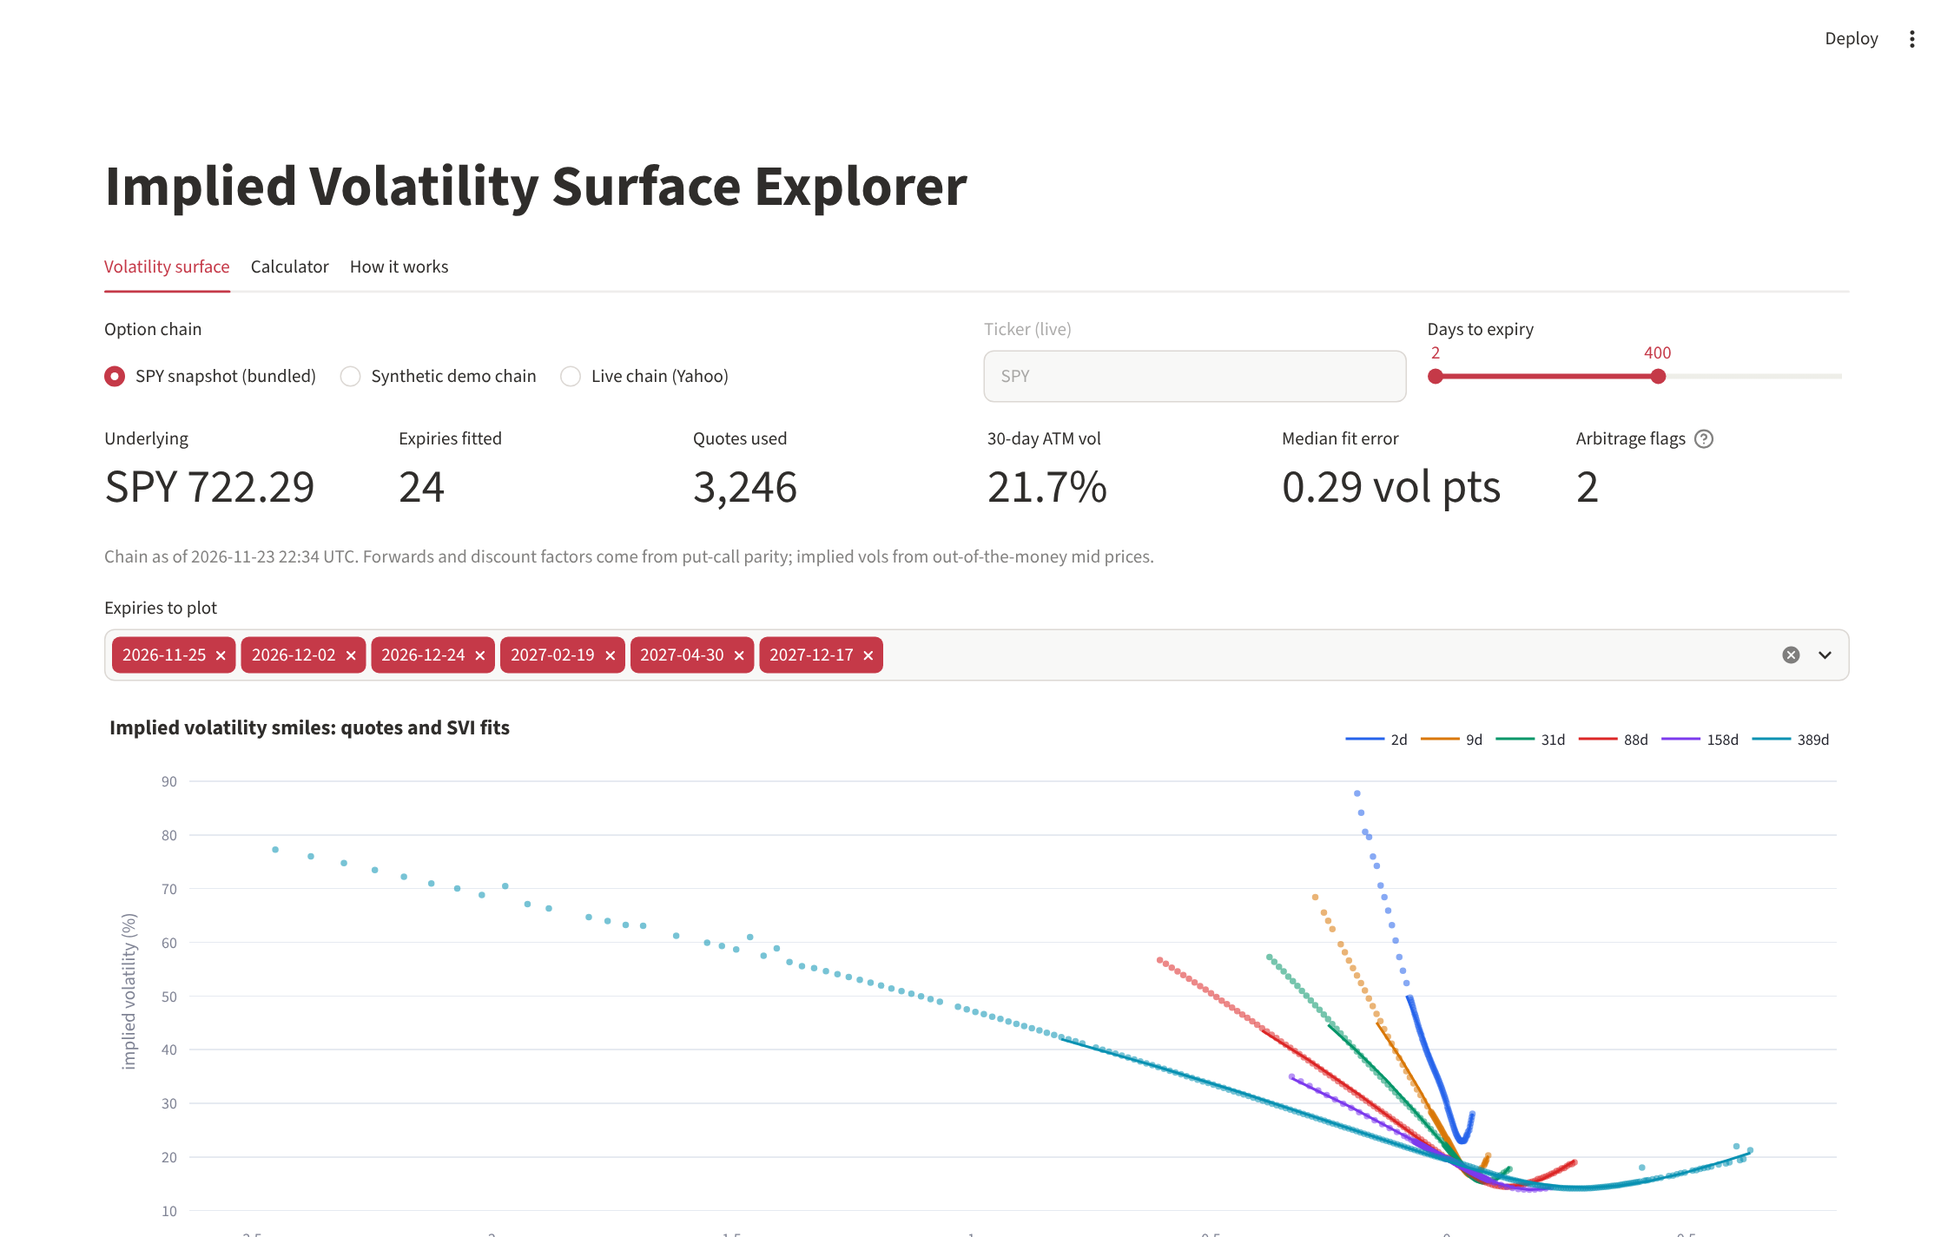
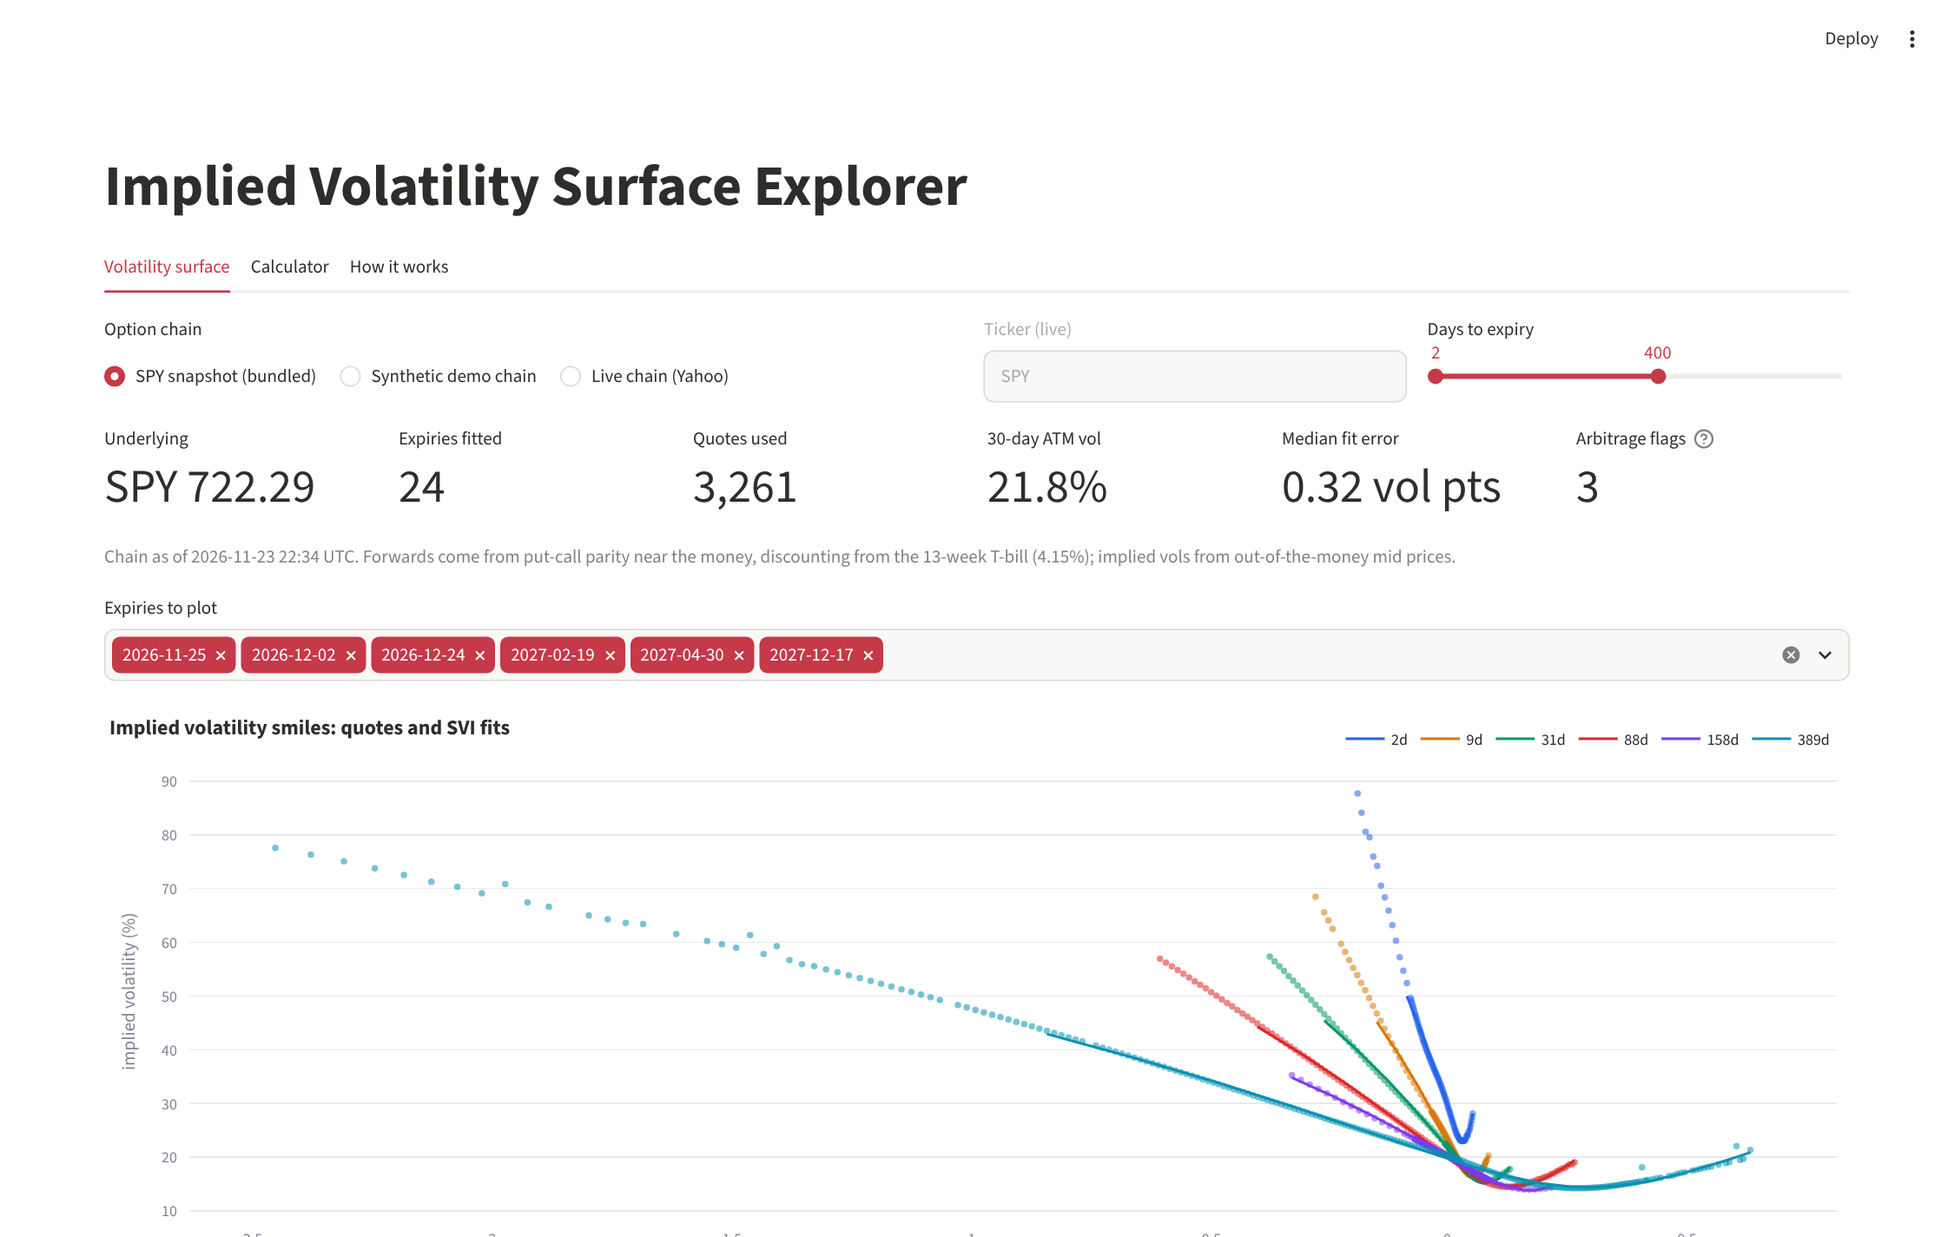
Discount at the T-bill instead of reading the rate off parity
SPY options are American. Early exercise makes in-the-money calls and puts
dearer, which tilts C - P against the strike, so the free put-call parity
regression returned a discount factor above 1 (a negative rate) for every
SPY expiry and biased implied volatilities down by up to about a vol point
at long maturities. Discounting now uses the 13-week T-bill stored with the
snapshot (or fetched with a live chain), and only the forward is read off
parity, at the six strikes nearest the money, as in Cboe's VIX method. The
regression remains the fallback when no rate is available, capped at 1.

Two new tests: the forward is recovered when deep in-the-money puts carry
an early-exercise premium, and the real snapshot discounts at the T-bill.
Results, README and the app screenshot are regenerated.

Claude-Session: https://claude.ai/code/session_01US7pdiDQx23iBcHLRJn73h

diff --git a/ivsurface/chain.py b/ivsurface/chain.py
@@ -4,10 +4,14 @@ Option chains: loading, cleaning, forwards, implied volatilities and the fitted 
 Pipeline for one chain:
   1. clean: drop quotes with no bid, crossed or locked markets, very wide
      spreads and expiries outside a maturity window; use mid prices;
-  2. forward and discount factor per expiry from put-call parity: across
-     strikes with both a call and a put, C - P = df * (F - K), so regressing
-     C - P on K gives the slope -df and the intercept df * F. No rate or
-     dividend assumption is needed;
+  2. forward and discount factor per expiry. European put-call parity says
+     C - P = df * (F - K) at every strike. Listed equity options (SPY's
+     included) are American: early exercise makes in-the-money options dearer
+     and tilts C - P, so a free regression of C - P on K returns a discount
+     factor above 1. With a risk-free rate (the 13-week T-bill stored with the
+     snapshot), df = exp(-r T) and only the forward is read off parity, at the
+     strikes nearest the money, as in Cboe's VIX method. Without a rate the
+     regression is used, with df capped at 1;
   3. implied volatilities (Black-76 on the forward) of out-of-the-money
      options only (puts below the forward, calls above), which are the liquid
      ones and carry no early-exercise premium worth speaking of;
@@ -36,6 +40,8 @@ def load_snapshot(ticker: str = "SPY", data_dir: Path = DATA_DIR) -> tuple[pd.Da
     chain = pd.read_csv(data_dir / f"{ticker}_chain_snapshot.csv")
     meta_path = data_dir / f"{ticker}_chain_meta.json"
     meta = json.loads(meta_path.read_text()) if meta_path.exists() else {}
+    if meta.get("tbill_13w") is not None and "rate" not in chain.columns:
+        chain["rate"] = float(meta["tbill_13w"])
     return chain, meta
 
 
@@ -61,8 +67,17 @@ def fetch_live(ticker: str, max_days: int = 400) -> tuple[pd.DataFrame, dict]:
                              "yahoo_iv": float(r.get("impliedVolatility", np.nan)), "spot": spot})
     if not rows:
         raise RuntimeError(f"No option chain returned for {ticker!r}.")
-    return pd.DataFrame(rows), {"ticker": ticker, "spot": spot,
-                                "as_of_utc": pd.Timestamp.now(tz="UTC").strftime("%Y-%m-%d %H:%M")}
+    out = pd.DataFrame(rows)
+    rate = None
+    try:
+        irx = yf.Ticker("^IRX").history(period="10d")["Close"].dropna()
+        rate = float(irx.iloc[-1]) / 100.0 if len(irx) else None
+    except Exception:
+        rate = None
+    if rate is not None:
+        out["rate"] = rate
+    return out, {"ticker": ticker, "spot": spot, "tbill_13w": rate,
+                 "as_of_utc": pd.Timestamp.now(tz="UTC").strftime("%Y-%m-%d %H:%M")}
 
 
 def clean(chain: pd.DataFrame, min_days: int = 2, max_days: int = 400,
@@ -76,15 +91,35 @@ def clean(chain: pd.DataFrame, min_days: int = 2, max_days: int = 400,
     return c[c["rel_spread"] <= max_rel_spread].reset_index(drop=True)
 
 
-def forward_and_discount(slice_: pd.DataFrame, spot: float) -> tuple[float, float, int]:
+def forward_and_discount(slice_: pd.DataFrame, spot: float, rate: float | None = None) -> tuple[float, float, int]:
     """
     Forward and discount factor of one expiry from put-call parity,
-    C - P = df * (F - K), fitted by least squares over strikes within 10% of
-    spot that have both a call and a put.
+    C - P = df * (F - K) (European).
+
+    With a risk-free rate, df = exp(-rate * T) and the forward is the median of
+    K + (C - P) / df over the six strikes nearest to where C - P changes sign,
+    where early exercise is worth least (American options make in-the-money
+    calls and puts dearer). Without one, C - P is regressed on K over strikes
+    within 10% of spot; the slope is -df, capped at 1, and the forward is read
+    near the money at that df. Returns (forward, df, strikes used).
     """
     calls = slice_[slice_["type"] == "C"].set_index("strike")["mid"]
     puts = slice_[slice_["type"] == "P"].set_index("strike")["mid"]
     both = pd.concat([calls, puts], axis=1, keys=["c", "p"]).dropna()
+    if both.empty:
+        return float(spot), 1.0, 0
+    T = float(slice_["days"].iloc[0]) / 365.0
+
+    def forward_near_money(df: float, n: int = 6) -> tuple[float, int]:
+        diff = both["c"] - both["p"]
+        k_star = float(diff.abs().idxmin())
+        near = both.iloc[np.argsort(np.abs(both.index.values - k_star))[:n]]
+        return float(np.median(near.index.values + (near["c"] - near["p"]).values / df)), len(near)
+
+    if rate is not None and np.isfinite(rate):
+        df = float(np.exp(-rate * T))
+        F, n = forward_near_money(df)
+        return F, df, n
     near = both[(both.index > 0.9 * spot) & (both.index < 1.1 * spot)]
     if len(near) < 3:
         near = both
@@ -92,22 +127,26 @@ def forward_and_discount(slice_: pd.DataFrame, spot: float) -> tuple[float, floa
         K = near.index.values.astype(float)
         slope, intercept = np.polyfit(K, (near["c"] - near["p"]).values, 1)
         df = -slope
-        if 0.8 < df <= 1.05:
+        if 0.8 < df <= 1.0:
             return float(intercept / df), float(df), int(len(near))
-    if len(both):  # fall back to the strike where call and put are closest
-        k0 = (both["c"] - both["p"]).abs().idxmin()
-        return float(k0 + both.loc[k0, "c"] - both.loc[k0, "p"]), 1.0, 1
-    return float(spot), 1.0, 0
+        if 1.0 < df <= 1.1:          # American early exercise tilts the line: cap at 1
+            F, n = forward_near_money(1.0)
+            return F, 1.0, n
+    F, n = forward_near_money(1.0)
+    return F, 1.0, n
 
 
-def implied_vols(chain: pd.DataFrame, spot: float | None = None) -> pd.DataFrame:
-    """Implied volatility of every out-of-the-money quote, with its forward and log-moneyness."""
+def implied_vols(chain: pd.DataFrame, spot: float | None = None, rate: float | None = None) -> pd.DataFrame:
+    """Implied volatility of every out-of-the-money quote, with its forward and log-moneyness.
+    rate: risk-free rate for discounting; defaults to the chain's "rate" column if it has one."""
     spot = float(chain["spot"].iloc[0]) if spot is None else spot
+    if rate is None and "rate" in chain.columns and chain["rate"].notna().any():
+        rate = float(chain["rate"].dropna().iloc[0])
     out = []
     for expiry, g in chain.groupby("expiry"):
         days = int(g["days"].iloc[0])
         T = days / 365.0
-        F, df, n_parity = forward_and_discount(g, spot)
+        F, df, n_parity = forward_and_discount(g, spot, rate)
         otm = g[((g["type"] == "P") & (g["strike"] < F)) | ((g["type"] == "C") & (g["strike"] >= F))].copy()
         if otm.empty:
             continue
@@ -184,6 +223,7 @@ def fit_surface(ivs: pd.DataFrame, min_points: int = 8, k_window: float = 4.0) -
     return Surface(fits=fits, summary=summary, calendar=cal, ivs=ivs)
 
 
-def build_surface(chain: pd.DataFrame, min_days: int = 2, max_days: int = 400) -> Surface:
+def build_surface(chain: pd.DataFrame, min_days: int = 2, max_days: int = 400,
+                  rate: float | None = None) -> Surface:
     """clean -> implied vols -> SVI fits -> arbitrage checks."""
-    return fit_surface(implied_vols(clean(chain, min_days, max_days)))
+    return fit_surface(implied_vols(clean(chain, min_days, max_days), rate=rate))

diff --git a/app.py b/app.py
@@ -36,6 +36,7 @@ def get_chain(source: str, ticker: str):
     if source == "synthetic":
         chain, _ = synthetic_chain(seed=7)
         return chain, {"ticker": "SYNTHETIC", "spot": float(chain["spot"].iloc[0]),
+                       "tbill_13w": float(chain["rate"].iloc[0]),
                        "as_of_utc": "generated from a known SSVI surface"}
     return fetch_live(ticker)
 
@@ -97,8 +98,9 @@ with tab_surface:
     flags = int((~s["butterfly_ok"]).sum() + (~s["calendar_ok_vs_previous"]).sum())
     k[5].metric("Arbitrage flags", f"{flags}", help="SVI butterfly (negative density) plus calendar "
                 "(variance falling with maturity by more than 0.1 vol points)")
-    st.caption(f"Chain as of {meta.get('as_of_utc', 'n/a')} UTC. Forwards and discount factors come "
-               "from put-call parity; implied vols from out-of-the-money mid prices.")
+    rate_txt = f"the 13-week T-bill ({meta['tbill_13w']:.2%})" if meta.get("tbill_13w") else "parity (no rate available)"
+    st.caption(f"Chain as of {meta.get('as_of_utc', 'n/a')} UTC. Forwards come from put-call parity near the "
+               f"money, discounting from {rate_txt}; implied vols from out-of-the-money mid prices.")
 
     exps = list(s["expiry"])
     default = [exps[i] for i in np.unique(np.linspace(0, len(exps) - 1, min(6, len(exps))).astype(int))]
@@ -212,10 +214,12 @@ with tab_about:
 
 1. **Clean.** Keep two-sided quotes (bid above zero, ask above bid) with a
    relative spread under 50%, inside the chosen maturity window. Use mid prices.
-2. **Forward and discount factor per expiry.** Put-call parity says
-   $C - P = DF\,(F - K)$ for every strike, so a straight-line fit of $C - P$
-   against $K$ near the money gives $DF$ (minus the slope) and $F$. No rate or
-   dividend assumption is needed.
+2. **Forward per expiry.** Put-call parity says $C - P = DF\,(F - K)$ for
+   every strike, so $F = K + (C - P)/DF$, read at the strikes nearest the money,
+   with $DF = e^{-rT}$ at the 13-week T-bill. SPY options are American: early
+   exercise makes in-the-money options dearer and tilts $C - P$, so a free
+   regression of $C - P$ on $K$ would give a discount factor above 1. Without
+   a rate, that regression is the fallback, with $DF$ capped at 1.
 3. **Implied volatilities** of out-of-the-money options (puts below the
    forward, calls above) by Black-76, with Newton steps inside a shrinking
    bisection bracket.

diff --git a/tests/test_chain_and_app.py b/tests/test_chain_and_app.py
@@ -5,7 +5,7 @@ import pytest
 from streamlit.testing.v1 import AppTest
 
 from ivsurface.calculator import option_through_time, synthetic_path
-from ivsurface.chain import DATA_DIR, build_surface, load_snapshot
+from ivsurface.chain import DATA_DIR, build_surface, clean, implied_vols, load_snapshot
 from tests.conftest import ROOT
 
 HAS_SNAPSHOT = (DATA_DIR / "SPY_chain_snapshot.csv").exists()
@@ -21,6 +21,18 @@ def test_real_spy_surface_fits():
     assert 0.05 < atm30 < 0.8
     assert (s["skew_25d_put_minus_call"].dropna() > 0).mean() > 0.9     # equity put skew
     assert s["butterfly_ok"].mean() > 0.8
+
+
+@pytest.mark.skipif(not HAS_SNAPSHOT, reason="no snapshot")
+def test_real_spy_discounting_uses_the_tbill():
+    """SPY options are American: discount at the T-bill, never at a factor above 1."""
+    chain, meta = load_snapshot("SPY")
+    ivs = implied_vols(clean(chain))
+    per = ivs.groupby("expiry").agg(T=("T", "first"), df=("df", "first"), F=("forward", "first"))
+    assert (per["df"] <= 1).all()
+    assert np.allclose(per["df"], np.exp(-meta["tbill_13w"] * per["T"]))
+    assert ((per["F"] / meta["spot"] - 1).abs() < 0.05).all()
+    assert per["F"].is_monotonic_increasing or (per["F"].diff().dropna() > -1.0).all()
 
 
 def test_bug_b_option_ages_towards_expiry():

diff --git a/tests/test_svi.py b/tests/test_svi.py
@@ -64,6 +64,26 @@ def test_forward_and_discount_from_put_call_parity():
         assert n >= 3
 
 
+def test_forward_with_rate_survives_american_premium():
+    """American early exercise makes in-the-money options dearer. That tilts C - P,
+    so a free parity regression gives a discount factor above 1; with the rate known,
+    the forward is still recovered from the strikes nearest the money."""
+    chain, _ = synthetic_chain(seed=1, noise_vol=0.0, rel_spread=0.002, r=0.04, q=0.015)
+    c = clean(chain)
+    for days, g in c.groupby("days"):
+        T = days / 365
+        F_true = 100 * np.exp((0.04 - 0.015) * T)
+        g = g.copy()
+        deep_itm_put = (g["type"] == "P") & (g["strike"] > 1.03 * F_true)
+        g.loc[deep_itm_put, "mid"] += 0.05 * (g.loc[deep_itm_put, "strike"] - 1.03 * F_true)
+        _, df_free, _ = forward_and_discount(g, 100.0)
+        F, df, n = forward_and_discount(g, 100.0, rate=0.04)
+        assert df_free <= 1.0
+        assert df == pytest.approx(np.exp(-0.04 * T), abs=1e-12)
+        assert F == pytest.approx(F_true, rel=1e-4)
+        assert n == 6
+
+
 def test_clean_surface_has_no_arbitrage(clean_surface):
     surface, _ = clean_surface
     assert surface.summary["butterfly_ok"].all()

diff --git a/ivsurface/synthetic.py b/ivsurface/synthetic.py
@@ -47,7 +47,7 @@ def synthetic_chain(spot: float = 100.0, r: float = 0.04, q: float = 0.015,
                     rel_spread: float = 0.03, seed: int = 0, inject: str | None = None):
     """
     Build a chain with the columns of a real snapshot (expiry, days, type,
-    strike, bid, ask, last, volume, open_interest, yahoo_iv, spot).
+    strike, bid, ask, last, volume, open_interest, yahoo_iv, spot, rate).
 
     inject: None, "calendar" (the 91-day slice's variance is cut below the
     60-day slice's) or "butterfly" (the 30-day slice is replaced by a smile
@@ -85,5 +85,5 @@ def synthetic_chain(spot: float = 100.0, r: float = 0.04, q: float = 0.015,
                 ask = round(mid + half, 4)
                 rows.append({"expiry": expiry, "days": d, "type": kind, "strike": K,
                              "bid": bid, "ask": ask, "last": round(mid, 4), "volume": 100.0,
-                             "open_interest": 1000.0, "yahoo_iv": iv, "spot": spot})
+                             "open_interest": 1000.0, "yahoo_iv": iv, "spot": spot, "rate": r})
     return pd.DataFrame(rows), truth

diff --git a/README.md b/README.md
@@ -18,9 +18,12 @@ fixed and tested.
   Finance.
 * **Cleans it**: keeps two-sided quotes (bid above zero, ask above bid) with a
   relative spread under 50%, and uses mid prices.
-* **Reads the forward and discount factor of each expiry off put-call
-  parity**: C - P = DF (F - K) for every strike, so a straight-line fit of
-  C - P on K near the money gives both. No rate or dividend assumption needed.
+* **Reads the forward of each expiry off put-call parity**: C - P = DF (F - K)
+  at every strike, so F = K + (C - P) / DF, taken at the strikes nearest the
+  money, with DF from the 13-week T-bill. SPY options are American, and early
+  exercise makes in-the-money options dearer: a free regression of C - P on K
+  gives a discount factor above 1 for every SPY expiry (a negative rate), so
+  the rate is not read off the chain. No dividend assumption is needed.
 * **Computes implied volatilities** of out-of-the-money options (Black-76 on
   the forward), with Newton steps inside a shrinking bisection bracket, and
   their Greeks.
@@ -37,13 +40,14 @@ Reproduce with `python scripts/make_figures.py`.
 | | |
 |---|---|
 | Spot | 722.29, captured 23 Nov 2026 22:34 UTC (after the close) |
-| Quotes used | 3,246 of 8,375 (out of the money, two-sided, within 4 ATM standard deviations) |
+| Quotes used | 3,261 of 8,375 (out of the money, two-sided, within 4 ATM standard deviations) |
 | Expiries fitted | 24, from 2 to 389 days |
-| 30-day ATM implied volatility | 21.7% |
-| SVI fit error | median 0.29 vol points, worst 0.51 |
-| 25-delta put minus 25-delta call | 6.8 to 9.5 vol points across expiries |
-| Butterfly (fitted smiles) | 23 of 24 expiries clean; the 206-day slice dips just below zero (g = -0.0013) |
-| Calendar | one flag: the 7-day slice sits 0.10 vol points under the 4-day one at its worst point, at the 0.1-point threshold |
+| Discounting | 13-week T-bill, 4.15%; forwards read off parity at the six strikes nearest the money |
+| 30-day ATM implied volatility | 21.8% |
+| SVI fit error | median 0.32 vol points, worst 0.51 |
+| 25-delta put minus 25-delta call | 7.0 to 9.6 vol points across expiries |
+| Butterfly (fitted smiles) | 23 of 24 expiries clean; the 206-day slice dips just below zero (g = -0.0021) |
+| Calendar | two flags, both in long-dated quarter-end expiries quoted after the close: 219 days sits 0.25 vol points under 206 days, and 311 days 0.31 under 298 days |
 | Executable butterflies in the quotes | 25, all in five long-dated expiries (128 to 389 days); the snapshot was taken after the close, when long-dated quotes are often stale |
 
 ![SPY smiles](results/spy_smiles.png)
@@ -117,7 +121,7 @@ described a Plotly chart the app did not draw, and a committed `__pycache__`.
 ```bash
 pip install -r requirements.txt
 streamlit run app.py              # opens at http://localhost:8501
-python -m pytest -q tests         # 33 tests, about 40 seconds
+python -m pytest -q tests         # 35 tests, about 60 seconds
 python scripts/make_figures.py    # refits the SPY snapshot, rewrites results/
 ```
 
@@ -136,10 +140,11 @@ tab); the app also loads live chains when you have internet.
 * SVI: SSVI-to-SVI conversion, the density integrating to one, parameter
   recovery on a noise-free synthetic chain (within 10%), smile recovery within
   0.4 vol points with quote noise, forwards and discount factors recovered
-  from put-call parity, a clean surface passing every check, and injected
-  butterfly and calendar arbitrage being flagged;
-* the real SPY surface fitting with sensible numbers, the option-ageing path,
-  and the app rendering without exceptions.
+  from put-call parity, the forward still recovered when in-the-money puts
+  carry an early-exercise premium, a clean surface passing every check, and
+  injected butterfly and calendar arbitrage being flagged;
+* the real SPY surface fitting with sensible numbers and discounting at the
+  T-bill, the option-ageing path, and the app rendering without exceptions.
 
 ## Project layout
 
@@ -160,11 +165,14 @@ tests/                    pytest suite
 ## Limitations
 
 * One snapshot, taken after the close: long-dated quotes may be stale, which
-  is the likely source of the executable butterflies found.
+  is the likely source of the executable butterflies and the two calendar
+  flags found. The forwards sit about 0.13% above the 4 pm close even at two
+  days, because the quotes reflect after-hours trading in SPY.
 * Each expiry is fitted on its own; the slices are checked for calendar
   arbitrage but not fitted jointly (an SSVI or eSSVI fit would guarantee it).
-* American exercise is ignored: SPY options are American, but only
-  out-of-the-money quotes are used, where the early-exercise premium is small.
+* American exercise is handled only approximately: implied volatilities come
+  from out-of-the-money quotes, where the early-exercise premium is small, and
+  forwards from the strikes nearest the money, with the T-bill for discounting.
 * Deep wings (beyond 4 ATM standard deviations) are left out of the fits.
 
 *Educational project, not investment advice.*
